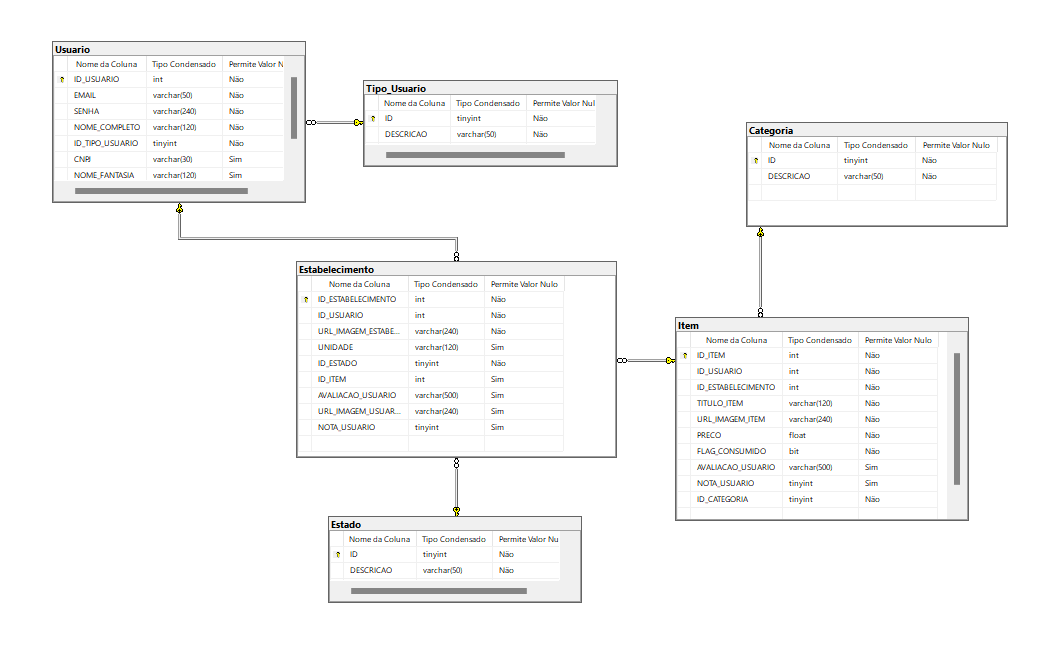
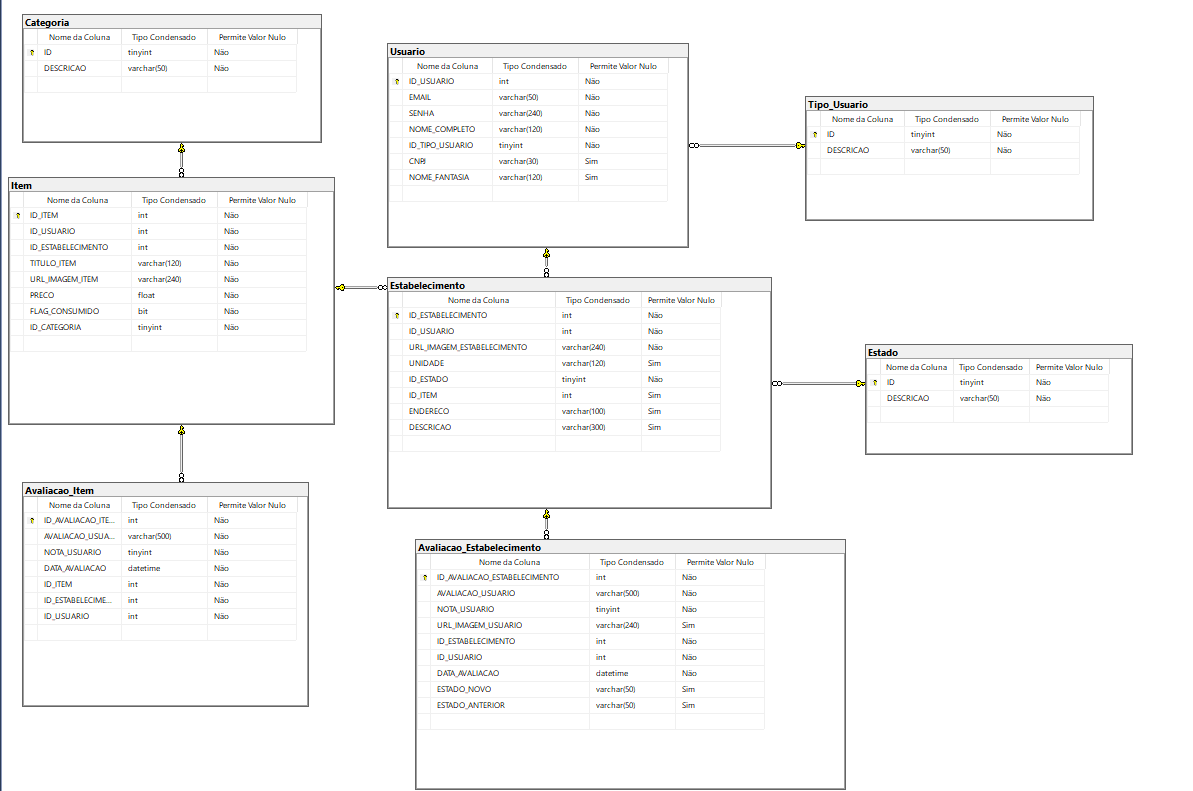
Atualizando modelo de dados conforme normalizacao

diff --git a/src/views/cadastroRestaurante.html b/src/views/cadastroRestaurante.html
@@ -5,7 +5,7 @@
         <meta charset="utf-8">
         <meta name="viewport" content="width=device-width, initial-scale=1">
         <link rel="stylesheet" href="style.css">
-        <!-- <link rel="icon" href="https://th.bing.com/th/id/OIG.didB9bWiNa1tFf3Z3ny1?w=270&h=270&c=6&r=0&o=5&dpr=1.3&pid=ImgGn"> -->
+        <link rel="icon" href="/img/logoPage.png">
         <link href="https://cdn.jsdelivr.net/npm/bootstrap@5.2.3/dist/css/bootstrap.min.css" rel="stylesheet">
         <script src="https://cdn.jsdelivr.net/npm/bootstrap@5.2.3/dist/js/bootstrap.bundle.min.js"></script>        
     </head>
@@ -46,10 +46,6 @@
                 <div class="mb-1">
                   <label for="nomeFantasia" class="form-label">Nome Fantasia:</label>
                   <input required placeholder="Informe o nome fantasia" type="text" class="form-control" id="nomeFantasia" name="nomeFantasia">
-                </div>
-                <div class="mb-1">
-                  <label for="nomeFantasia" class="form-label">Endereço:</label>
-                  <input required placeholder="Informe o endereço" type="text" class="form-control" id="endereco" name="endereco">
                 </div>
                 <div class="mb-1 mt-1">
                   <label for="email" class="form-label">Email:</label>

diff --git a/src/model/avaliacaoItem.js b/src/model/avaliacaoItem.js
@@ -1,0 +1,47 @@
+const {Sequelize, DataTypes} = require('sequelize');
+const database = require('../db');
+const { type } = require('express/lib/response');
+
+const AvaliacaoItem = database.define('avaliacaoItem', {
+    id_avaliacao_item: {
+        type: Sequelize.INTEGER,
+        autoIncrement: true,
+        allowNull: false,
+        primaryKey: true
+    },
+    avaliacao_usuario: {
+        type: Sequelize.STRING,
+        allowNull: false
+    },
+    nota_usuario: {
+        type: Sequelize.TINYINT,
+        allowNull: false
+    },
+    url_imagem_usuario: {
+        type: Sequelize.STRING,
+        allowNull: true
+    },
+    id_estabelecimento:{
+        type: Sequelize.INTEGER,
+        allowNull: false
+    },
+    id_usuario:{
+        type: Sequelize.INTEGER,
+        allowNull: false
+    },
+    data_avaliacao:{
+        type: DataTypes.DATE,
+        defaultValues: DataTypes.NOW,
+        allowNull: false
+    },
+    estado_novo:{
+        type: Sequelize.STRING,
+        allowNull: true
+    },
+    estado_anterior:{
+        type: Sequelize.STRING,
+        allowNull: true
+    }
+});
+
+module.exports = AvaliacaoItem;

diff --git a/src/model/avaliacaoEstabelecimento.js b/src/model/avaliacaoEstabelecimento.js
@@ -1,0 +1,43 @@
+const {Sequelize, DataTypes} = require('sequelize');
+const database = require('../db');
+const { type } = require('express/lib/response');
+
+const AvaliacaoEstabelecimento = database.define('avaliacaoEstabelecimento', {
+    id_avaliacao_estabelecimento: {
+        type: Sequelize.INTEGER,
+        autoIncrement: true,
+        allowNull: false,
+        primaryKey: true
+    },
+    avaliacao_usuario: {
+        type: Sequelize.STRING,
+        allowNull: false
+    },
+    nota_usuario: {
+        type: Sequelize.TINYINT,
+        allowNull: false
+    },
+    url_imagem_usuario: {
+        type: Sequelize.STRING,
+        allowNull: true
+    },
+    id_estabelecimento:{
+        type: Sequelize.INTEGER,
+        allowNull: false
+    },
+    id_usuario:{
+        type: Sequelize.INTEGER,
+        allowNull: false
+    },
+    id_item:{
+        type: Sequelize.INTEGER,
+        allowNull: false
+    },
+    data_avaliacao:{
+        type: DataTypes.DATE,
+        defaultValues: DataTypes.NOW,
+        allowNull: false
+    }
+});
+
+module.exports = AvaliacaoEstabelecimento;

diff --git a/src/views/index.html b/src/views/index.html
@@ -5,7 +5,7 @@
         <meta charset="utf-8">
         <meta name="viewport" content="width=device-width, initial-scale=1">
         <link rel="stylesheet" href="style.css" type="text/css">
-        <!-- <link rel="icon" href="https://th.bing.com/th/id/OIG.didB9bWiNa1tFf3Z3ny1?w=270&h=270&c=6&r=0&o=5&dpr=1.3&pid=ImgGn"> -->
+        <link rel="icon" href="/img/logoPage.png">
         <link href="https://cdn.jsdelivr.net/npm/bootstrap@5.2.3/dist/css/bootstrap.min.css" rel="stylesheet">
         <script src="https://cdn.jsdelivr.net/npm/bootstrap@5.2.3/dist/js/bootstrap.bundle.min.js"></script>        
     </head>

diff --git a/src/views/loginConsumidor.html b/src/views/loginConsumidor.html
@@ -5,7 +5,7 @@
         <meta charset="utf-8">
         <meta name="viewport" content="width=device-width, initial-scale=1">
         <link rel="stylesheet" href="style.css" type="text/css">
-        <!-- <link rel="icon" href="https://th.bing.com/th/id/OIG.didB9bWiNa1tFf3Z3ny1?w=270&h=270&c=6&r=0&o=5&dpr=1.3&pid=ImgGn"> -->
+        <link rel="icon" href="/img/logoPage.png">
         <link href="https://cdn.jsdelivr.net/npm/bootstrap@5.2.3/dist/css/bootstrap.min.css" rel="stylesheet">
         <script src="https://cdn.jsdelivr.net/npm/bootstrap@5.2.3/dist/js/bootstrap.bundle.min.js"></script>        
     </head>

diff --git a/src/views/loginRestaurante.html b/src/views/loginRestaurante.html
@@ -5,7 +5,7 @@
         <meta charset="utf-8">
         <meta name="viewport" content="width=device-width, initial-scale=1">
         <link rel="stylesheet" href="style.css" type="text/css">
-        <!-- <link rel="icon" href="https://th.bing.com/th/id/OIG.didB9bWiNa1tFf3Z3ny1?w=270&h=270&c=6&r=0&o=5&dpr=1.3&pid=ImgGn"> -->
+        <link rel="icon" href="/img/logoPage.png">
         <link href="https://cdn.jsdelivr.net/npm/bootstrap@5.2.3/dist/css/bootstrap.min.css" rel="stylesheet">
         <script src="https://cdn.jsdelivr.net/npm/bootstrap@5.2.3/dist/js/bootstrap.bundle.min.js"></script>        
     </head>

diff --git a/src/views/cadastro.html b/src/views/cadastro.html
@@ -5,7 +5,7 @@
         <meta charset="utf-8">
         <meta name="viewport" content="width=device-width, initial-scale=1">
         <link rel="stylesheet" href="style.css">
-        <!-- <link rel="icon" href="https://th.bing.com/th/id/OIG.didB9bWiNa1tFf3Z3ny1?w=270&h=270&c=6&r=0&o=5&dpr=1.3&pid=ImgGn"> -->
+        <link rel="icon" href="/img/logoPage.png">
         <link href="https://cdn.jsdelivr.net/npm/bootstrap@5.2.3/dist/css/bootstrap.min.css" rel="stylesheet">
         <script src="https://cdn.jsdelivr.net/npm/bootstrap@5.2.3/dist/js/bootstrap.bundle.min.js"></script>        
     </head>

diff --git a/src/controller/autenticacaoController.js b/src/controller/autenticacaoController.js
@@ -4,6 +4,9 @@ const Item = require('../model/item');
 const Estado = require('../model/estado');
 const Categoria = require('../model/categoria');
 const TipoUsuario = require('../model/tipoUsuario');
+const AvaliacaoEstabelecimento = require('../model/avaliacaoEstabelecimento');
+const AvaliacaoItem = require('../model/avaliacaoItem');
+
 const { where } = require('sequelize');
 
 function loginConsumidorView(req, res) {

diff --git a/src/model/item.js b/src/model/item.js
@@ -34,14 +34,6 @@ const Item = database.define('item', {
         type: Sequelize.BOOLEAN,
         allowNull: true
     },
-    avaliacao_usuario: {
-        type: Sequelize.STRING,
-        allowNull: true
-    },
-    nota: {
-        type: Sequelize.INTEGER,
-        allowNull: true
-    },
     id_categoria:{
         type: Sequelize.INTEGER,
         allowNull: false

diff --git a/src/model/estabelecimento.js b/src/model/estabelecimento.js
@@ -36,14 +36,6 @@ const Estabelecimento = database.define('estabelecimento', {
     id_item: {
         type: Sequelize.INTEGER,
         allowNull: true
-    },
-    avaliacao_usuario: {
-        type: Sequelize.STRING,
-        allowNull: true
-    },
-    nota_usuario: {
-        type: Sequelize.INTEGER,
-        allowNull: true
     }
 });
 

diff --git a/src/model/usuario.js b/src/model/usuario.js
@@ -10,7 +10,8 @@ const Usuario = database.define('usuario', {
     },
     email: {
         type: Sequelize.STRING,
-        allowNull: false
+        allowNull: false,
+        unique: true
     },
     senha: {
         type: Sequelize.STRING,
